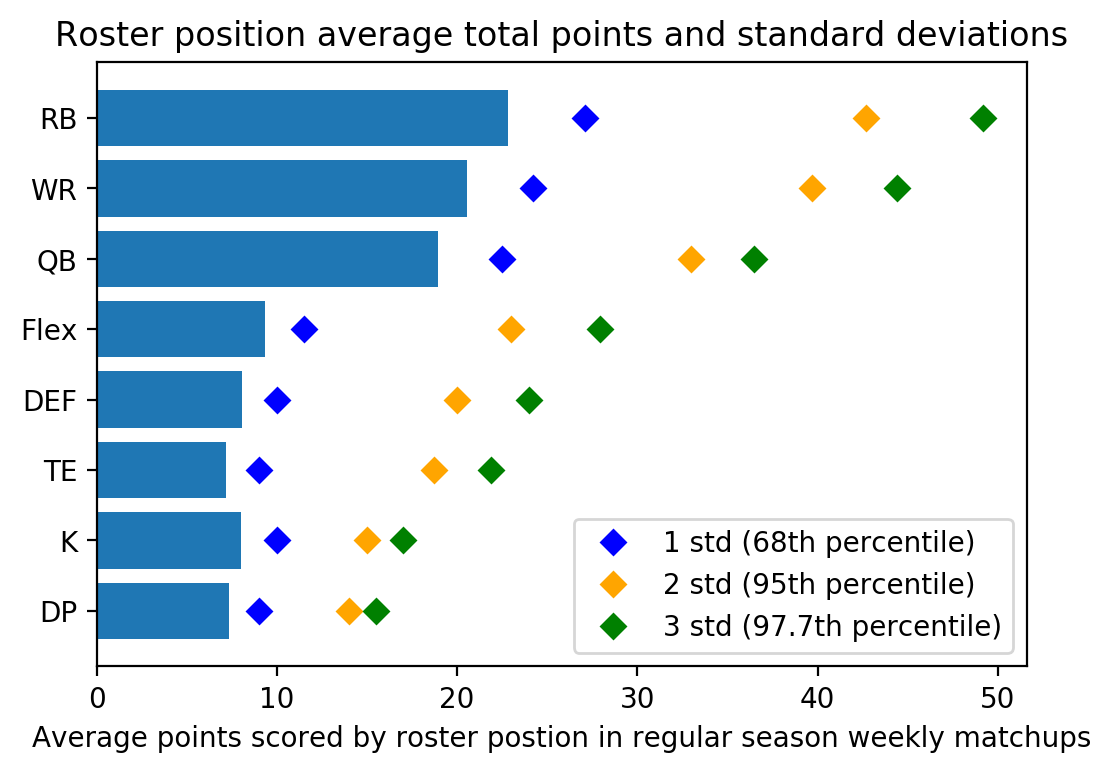
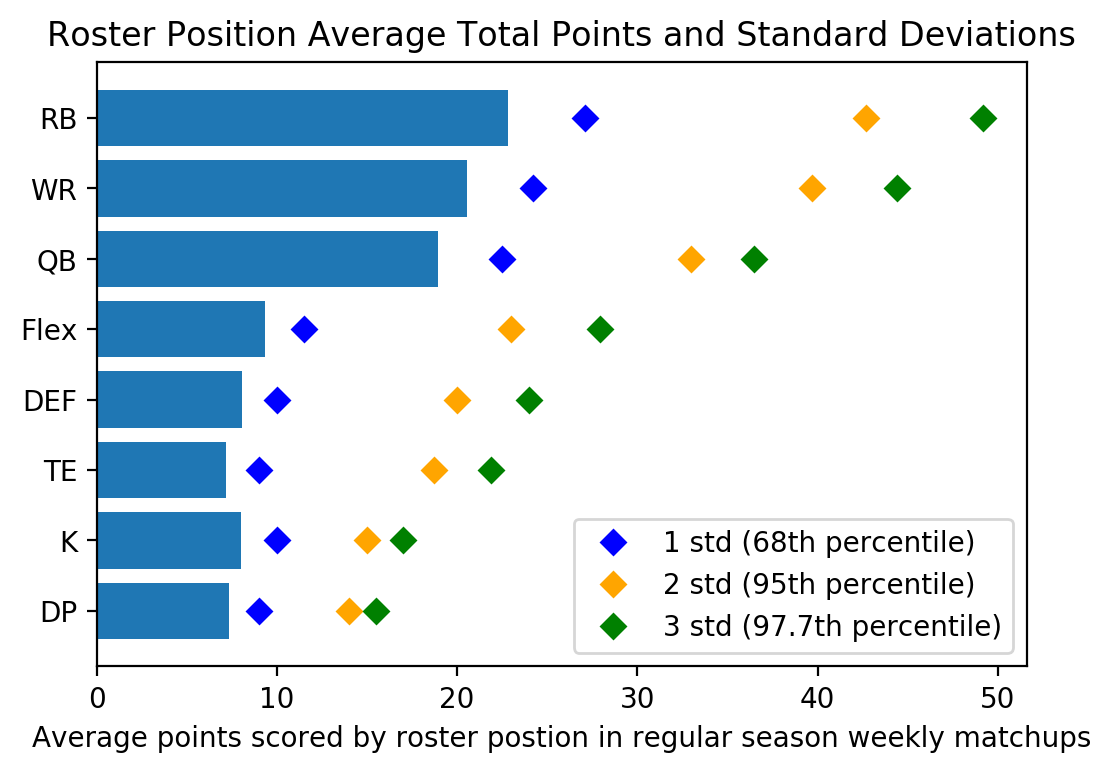
defensive player analysis

Changed region(s): [[0.0306, 0.031, 0.9793, 0.0621]]

diff --git a/analyses.py b/analyses.py
@@ -888,7 +888,7 @@ def defensive_player_bar_std(df):
     stats_df = stats_df.sort_values(by=['std'])
     
     # Plot elements
-    pltTitle = 'Roster position average total points and standard deviations'
+    pltTitle = 'Roster Position Average Total Points and Standard Deviations'
     pltXLabel = 'Average points scored by roster postion in regular season weekly matchups'
     pltFile = 'plots/dp_bar_std.png'
     labels = list(stats_df.index)

diff --git a/README.md b/README.md
@@ -14,6 +14,14 @@ I used python to web-scrape all of the data from our league's history. If you'd 
 Every season we've had 12 coaches. You get a dot for each season you've participated.
 ![Alt text](./plots/seasons_participated.png?raw=true)
 
+## Defensive Player Roster Position
+### Individual Defensive Player Is Stupid and You Are Too If You Like It
+This year I'm including a special section dedicated to the individual defensive player (DP) roster position. To examine the relevance of the DP position on our roster, I filtered the data to the regular season and included only players that were actually started for the week (no bench). This is important - we're only looking at the players that were actually started (arguably the top 12 players for that position for the week (top 24 for RB and WR)). For the given coach-season-week, I combined the points for the two running back roster spots together, and also did the same for wide receivers. I did this because I wanted to assess the value of each roster position. In line with this, I categorized the flex roster position as "flex" instead of bucketing those players into either RB, WR, or TE. I then calculated the mean and standard deviation/percentiles for each roster position across all our seasons. The results are in the plot below.
+
+As you can see in the chart, running backs, wide receivers and quarterbacks are by far the most important. Your two running backs combined will score, on average, around 23 points. On a slightly above average week (1 standard deviation/68th percentile), you'll get around 28 points. On a super good week (3 standard deviations/97.7th percentile), you'll ball out and get nearly 50 points. There is a huge amount of variability for these roster spots, which makes seeking out the best players for these positions the utmost importance.
+
+Looking at the other positions (Flex, Def, TE, K, DP), they all have similar means. But what matters is how wide their standard deviations are. This relates to the variance you expect for that roster position. With the Flex, Def and TE spot, there's a ton of variability. The variability is what makes the roster position worthwhile. You want to get the good players for that position because they can significantly outscore your opponent (this is the reason why Travis Kelce is always drafted early). Looking at the DP position, on average you'll get around 8 points. On the most amazing week (97.7th percentile), you'll get around 15 points. What's the point (pun intended) of this? It doesn't matter which of the top 12 DP's you choose for a given week. They all do more or less the same. Now, I know what you're thinking... "Mike, what about the kicker? They're pretty similar to DP." You are correct! And that's why everyone makes fun of the kicker position. I think it's fine to have one useless, non-strategic position on our roster. But two is too many. Just like there's only room for one AJ in our group ;)
+![Alt text](./plots/dp_bar_std.png?raw=true)
 
 ## Regular Season and Playoffs
 Statistics for stuff that happens during the playoffs and the regular season.
